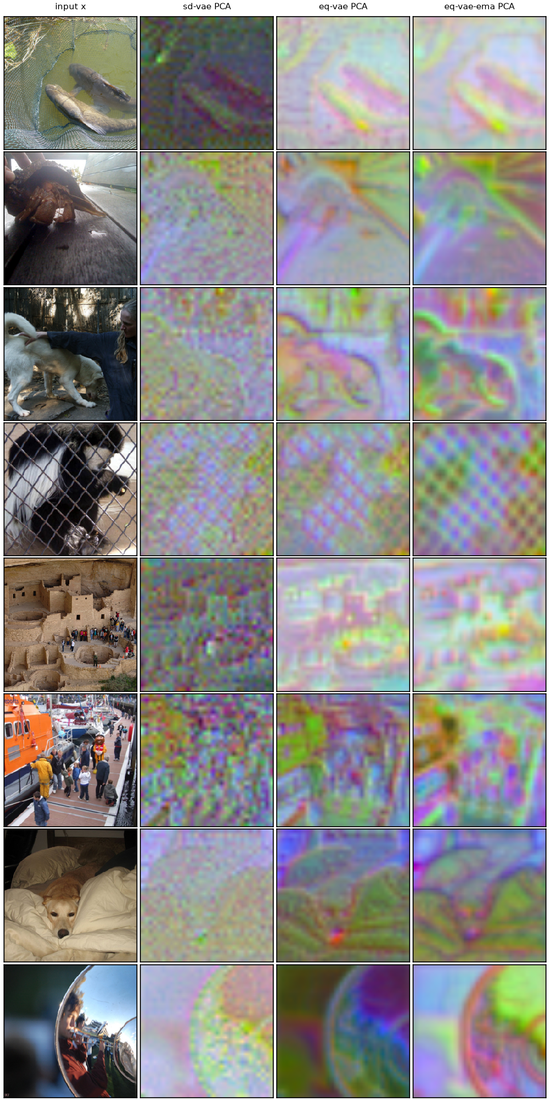
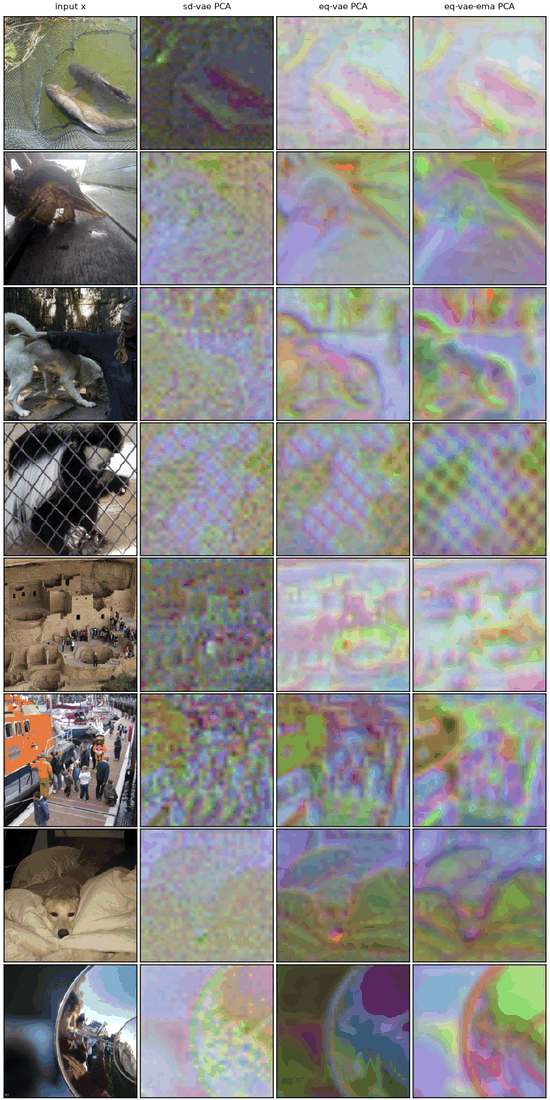
exp[mac](2026-11-25-fig12-latent-vis): card result, figures under 1 MB; STATE/registry update

diff --git a/paper_repro/eqvae/experiments/2026-11-25-fig12-latent-vis/CARD.md b/paper_repro/eqvae/experiments/2026-11-25-fig12-latent-vis/CARD.md
@@ -1,6 +1,6 @@
 # 2026-11-25-fig12-latent-vis
 
-类型：analysis　状态：queued　机器：pc
+类型：analysis　状态：running（已跑完，待用户核对）　机器：pc
 
 ## 问题
 在同样 8 张 val 图上，能否重现论文 Fig 1 和 Fig 2 的观察？
@@ -22,17 +22,17 @@
 无训练，也不重新生成主干的评测缓存。只读三个模型的权重和 8 张固定的 val 图。名单为排序后第 0、6250、…、43750 张，与 DATA.md 一致。
 
 ## 评测
-- 定性：看图。
-- 定量辅助：在这 8 张图上，算 D(τ∘E(x)) 与 τ∘x 之间、以及 D(E(τ∘x)) 与 τ∘x 之间的逐图 PSNR，写进 result.json。不替代 trunk 的指标。
+定性看图；定量辅助是这 8 张图上 D(τ∘E(x))、D(E(τ∘x)) 各自与 τ∘x 的逐图 PSNR，写进 result.json，不替代 trunk 的指标。
 
 ## 计算和存储预算
 PC 上几分钟，显存 ≤4 GB；存储上限 50 MB。
 
 ## 要保存的产物
-- result.json
-- fig1_latent_pca.png（列为：输入、SD-VAE、eq-vae、eq-vae-ema）
-- fig2_scale05.png（每个模型三列：τ∘x、D(E(τ∘x))、D(τ∘E(x))）
-- fig2_rot90.png（版式同上）
+result.json；fig1_latent_pca.png（输入、SD-VAE、eq-vae、eq-vae-ema）；fig2_scale05.png 和 fig2_rot90.png（每个模型两列 D(E(τ∘x))、D(τ∘E(x))）。git 里的图缩到 1100 px 并量化为 256 色；原图在 runs/ 下的 figures_full/。
 
 ## 结果
-【运行后填写】
+run 2026-11-25-fig12-latent-vis-20261125-044911-pc，commit 5cb6832，72 秒。用户要求先出图，所以在 trunk 锁定前运行。
+- 定性：两个观察都清楚复现。SD-VAE 的 PCA 图是格点噪声，EQ 两版能看出物体轮廓（ema 更平滑）。s=0.5 时 SD-VAE 的 D(τ∘E(x)) 糊成色块，EQ 两版接近 D(E(τ∘x))；rot90 时 SD-VAE 出现条带和错位伪影。
+- D(τ∘E(x)) 与 τ∘x 的 PSNR（8 张均值，dB）：s=0.5 时 SD 20.31、eq 21.06、ema 21.68；rot90 时 20.01、22.26、23.95。D(E(τ∘x)) 三者都约 23.6（s=0.5）和 26.1（rot90）。
+- 按事先写的推翻条件：s=0.5 时 eq-vae 只比 SD-VAE 高 0.75 dB，不到 2 dB，这一条成立（预测被推翻）；rot90 时高 2.25 dB，未触发。"旋转时差异更小"的预测也错了：旋转的差距更大。
+- 解释（不改结论）：s=0.5 时 SD-VAE 的输出是低频正确的模糊图，PSNR 对模糊惩罚小，所以 PSNR 低估了图中的差距。定量结论以 trunk 的等变误差为准。

diff --git a/paper_repro/eqvae/EXPERIMENTS.md b/paper_repro/eqvae/EXPERIMENTS.md
@@ -4,7 +4,7 @@
 
 | id | 类型 | 问题 | 影响的决定 | 状态 | 一句话结论 | 卡片 |
 |---|---|---|---|---|---|---|
-| 2026-11-25-released-vae-eval | trunk | SD-VAE 与发布的 EQ-VAE 能否对上 Table 1/12 | 对上则锁定主干；对不上先查协议 | queued | — | [卡片](experiments/2026-11-25-released-vae-eval/CARD.md) |
-| 2026-11-25-fig12-latent-vis | analysis | 能否重现 Fig 1 平滑 latent 与 Fig 2 latent 变换退化 | 成立则写入结论；否则查变换实现 | queued | — | [卡片](experiments/2026-11-25-fig12-latent-vis/CARD.md) |
+| 2026-11-25-released-vae-eval | trunk | SD-VAE 与发布的 EQ-VAE 能否对上 Table 1/12 | 对上则锁定主干；对不上先查协议 | running | — | [卡片](experiments/2026-11-25-released-vae-eval/CARD.md) |
+| 2026-11-25-fig12-latent-vis | analysis | 能否重现 Fig 1 平滑 latent 与 Fig 2 latent 变换退化 | 成立则写入结论；否则查变换实现 | running | 图上清楚复现；s=0.5 PSNR 仅 +0.75 dB，未达 2 dB | [卡片](experiments/2026-11-25-fig12-latent-vis/CARD.md) |
 | 2026-11-25-eqvae-ft-1ep | ablation | EQ 微调 1 epoch 能否降低 S(s) 且不伤重建 | 成立则问是否续训 5 epoch；否则查实现 | queued | — | [卡片](experiments/2026-11-25-eqvae-ft-1ep/CARD.md) |
 | 2026-11-25-noeq-ft-1ep | ablation | 不加 EQ 的同配方微调，等变误差是否不变 | 不变则归因于等变损失；否则重审 EQ 结论 | queued | — | [卡片](experiments/2026-11-25-noeq-ft-1ep/CARD.md) |

diff --git a/paper_repro/eqvae/STATE.md b/paper_repro/eqvae/STATE.md
@@ -19,11 +19,12 @@
 
 在 val 50k 上，原版 SD-VAE 和发布的 EQ-VAE 能否对上 Table 1 和 Table 12？→ 卡片：experiments/2026-11-25-released-vae-eval/CARD.md（2026-11-25 已批准）
 
+正在跑：PC tmux `eqvae-trunk-eval`（run 2026-11-25-released-vae-eval-20261125-045211-pc），3 个模型依次，预计约 6.5 小时。Fig 1/2 可视化已先跑完（用户要求），待核对。翻译模型已停，评测完再用 Start-Translation.ps1 重启。
+
 ## 排队（最多 5 项）
 
-1. analysis：Fig 1、Fig 2 可视化，PC → experiments/2026-11-25-fig12-latent-vis/CARD.md
-2. ablation：EQ 微调 1 epoch，集群空闲时 → experiments/2026-11-25-eqvae-ft-1ep/CARD.md
-3. ablation：不加 EQ 的对照微调，排在第 2 项之后 → experiments/2026-11-25-noeq-ft-1ep/CARD.md
+1. ablation：EQ 微调 1 epoch，集群空闲时 → experiments/2026-11-25-eqvae-ft-1ep/CARD.md
+2. ablation：不加 EQ 的对照微调，排在第 1 项之后 → experiments/2026-11-25-noeq-ft-1ep/CARD.md
 
 ## 搁置的想法
 

diff --git a/paper_repro/eqvae/docs/DATA.md b/paper_repro/eqvae/docs/DATA.md
@@ -8,7 +8,7 @@
 
 | 标识 | 内容和规模 | 用途 | 位置 |
 |---|---|---|---|
-| imagenet-val | ILSVRC2012 val，1000 类 × 50 张 = 50,000 张 JPEG，约 6.4 GB | 唯一评测集（重建指标、等变误差）；可视化取其中 8 张 | cluster:`$LAB_DATA_DIR/imagenet/val/`（软链接视图）；pc:`~/lab/assets/datasets/imagenet-val/`（待从集群 rsync -L 拉取，拉取后登记） |
+| imagenet-val | ILSVRC2012 val，1000 类 × 50 张 = 50,000 张 JPEG，约 6.4 GB | 唯一评测集（重建指标、等变误差）；可视化取其中 8 张 | cluster:`$LAB_DATA_DIR/imagenet/val/`（软链接视图）；pc:`~/lab/assets/datasets/imagenet-val/`（2026-11-25 拉取，已登记） |
 | imagenet-train | ILSVRC2012 train，可读 1,281,162 张（5 张坏图已隔离） | 微调（代替论文用的 OpenImages，见 D-001） | cluster:`$LAB_DATA_DIR/imagenet/train/`，只在集群 |
 
 OpenImages 不在任何一台机器上，不下载（约 500 GB 以上）。
